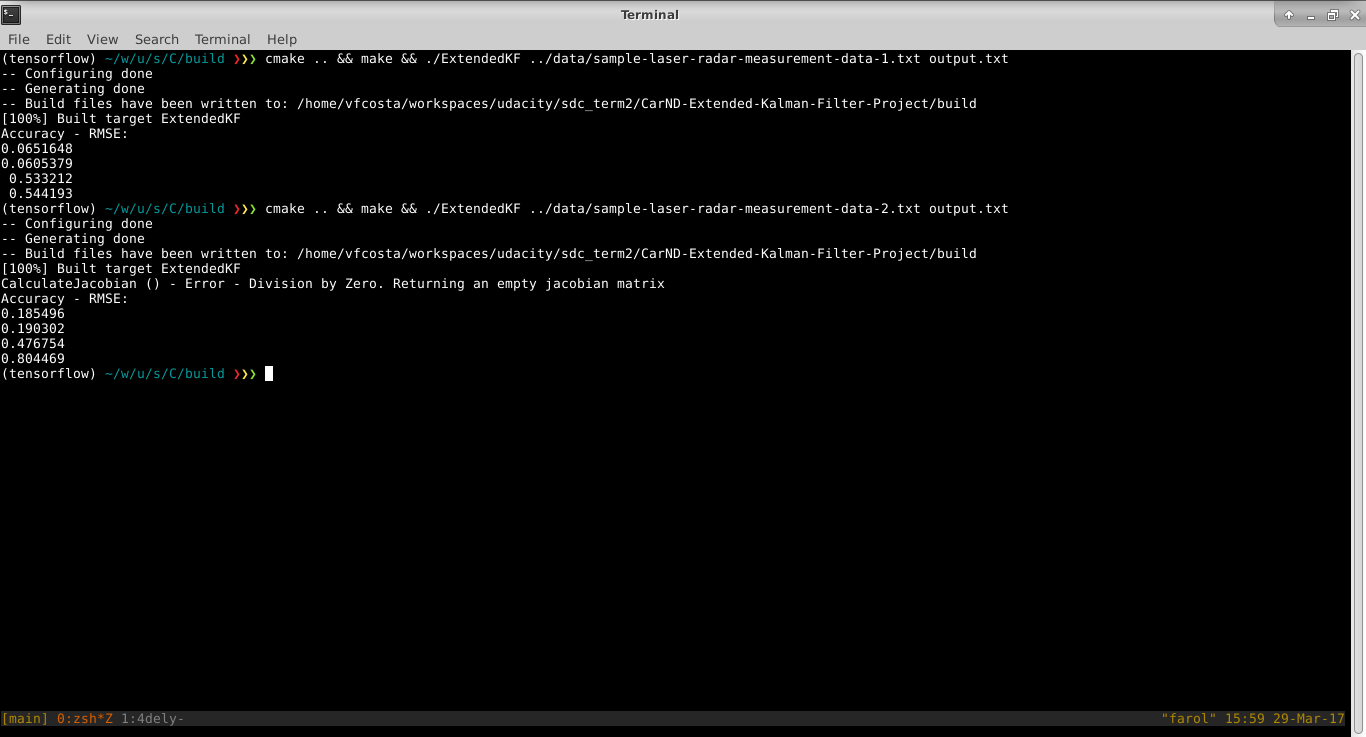
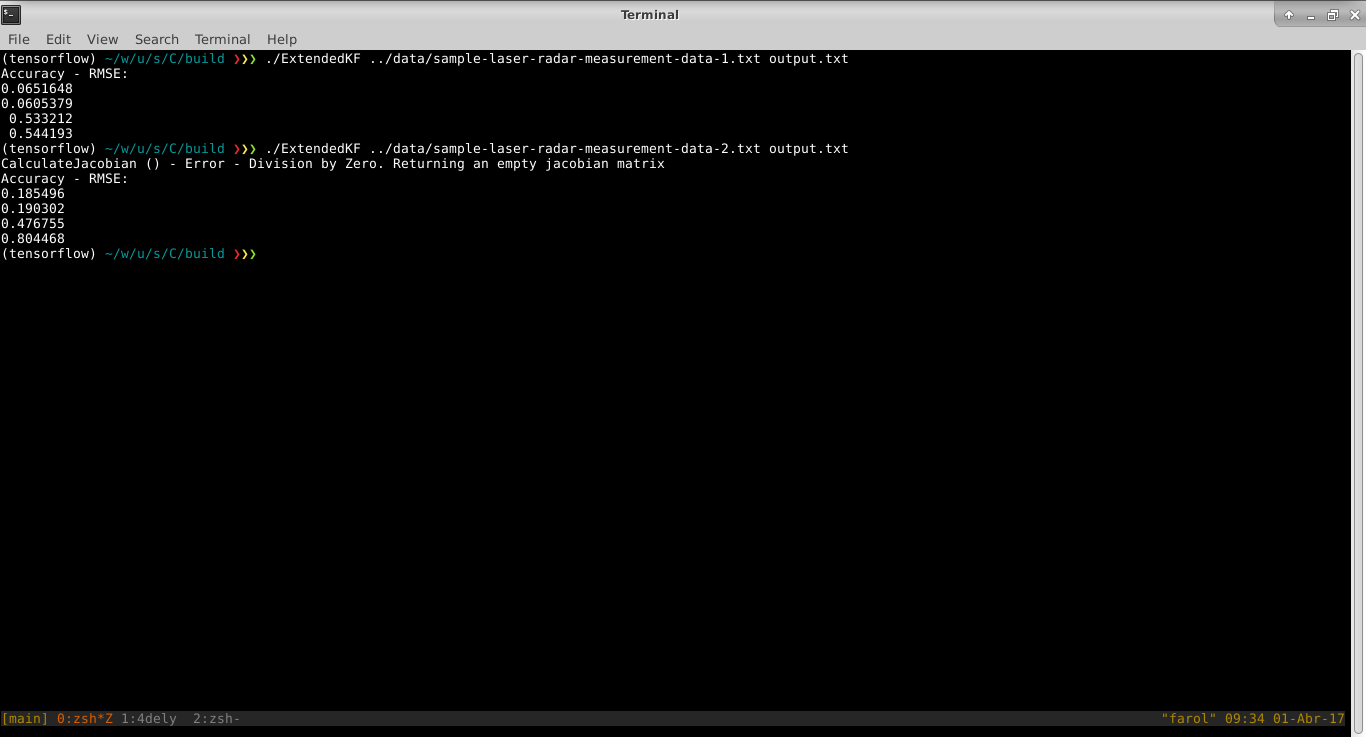
Prevent division by zero

diff --git a/src/FusionEKF.cpp b/src/FusionEKF.cpp
@@ -62,7 +62,6 @@ FusionEKF::~FusionEKF() {}
 
 void FusionEKF::ProcessMeasurement(const MeasurementPackage &measurement_pack) {
 
-
   /*****************************************************************************
    *  Initialization
    ****************************************************************************/
@@ -83,6 +82,10 @@ void FusionEKF::ProcessMeasurement(const MeasurementPackage &measurement_pack) {
       // Initialize state
       ekf_.x_ << measurement_pack.raw_measurements_[0], measurement_pack.raw_measurements_[1], 0, 0;
     }
+    // prevent nonsense data for x, y
+    if (ekf_.x_[0] == 0 && ekf_.x_[1] == 0) {
+      ekf_.x_[0] = ekf_.x_[1] = tools.epsilon;
+    }
 
     // done initializing, no need to predict or update
     previous_timestamp_ = measurement_pack.timestamp_;
@@ -101,7 +104,7 @@ void FusionEKF::ProcessMeasurement(const MeasurementPackage &measurement_pack) {
    */
   float dt = (measurement_pack.timestamp_ - previous_timestamp_) / 1000000.0;	//dt - expressed in seconds
   previous_timestamp_ = measurement_pack.timestamp_;
-  if (dt > 0) {
+  if (dt > tools.epsilon) {
     //Modify the F matrix so that the time is integrated
     ekf_.F_(0, 2) = dt;
     ekf_.F_(1, 3) = dt;

diff --git a/src/tools.cpp b/src/tools.cpp
@@ -58,7 +58,7 @@ MatrixXd Tools::CalculateJacobian(const VectorXd& x_state) {
   float c3 = (c1*c2);
 
   //check division by zero
-  if(fabs(c1) < 0.0001){
+  if(fabs(c1) < epsilon){
     cout << "CalculateJacobian () - Error - Division by Zero. Returning an empty jacobian matrix" << endl;
     return Hj;
   }
@@ -85,7 +85,7 @@ VectorXd Tools::ConvertPolarToCartesian(const Eigen::VectorXd& measurements) {
 VectorXd Tools::ConvertCartesianToPolar(const Eigen::VectorXd& x) {
   VectorXd polar = VectorXd(3);
   float c1 = sqrt(pow(x[0], 2) + pow(x[1], 2));
-  if (c1 > 0) {
+  if (c1 > epsilon) {
     polar << c1, atan2(x[1], x[0]), (x[0]*x[2] + x[1]*x[3])/c1;
   }
   return polar;

diff --git a/src/tools.h b/src/tools.h
@@ -35,6 +35,8 @@ public:
   */
   Eigen::VectorXd ConvertCartesianToPolar(const Eigen::VectorXd& x);
 
+  float epsilon = 0.0001;
+
 };
 
 #endif /* TOOLS_H_ */
